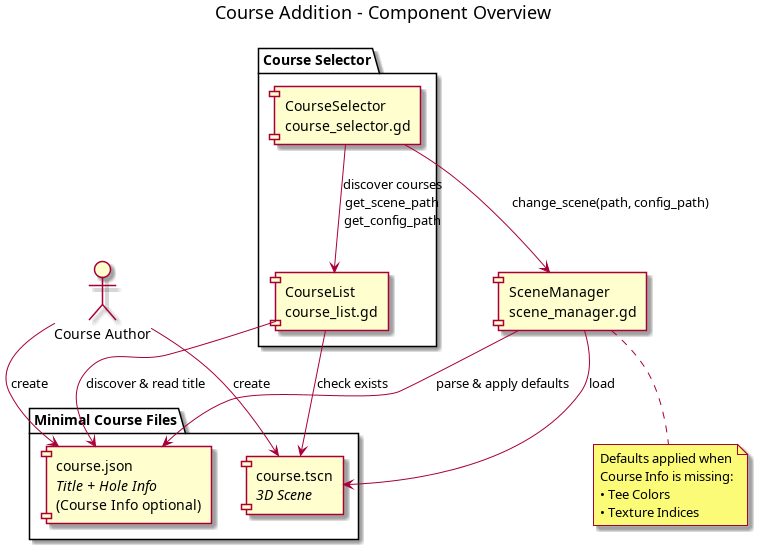
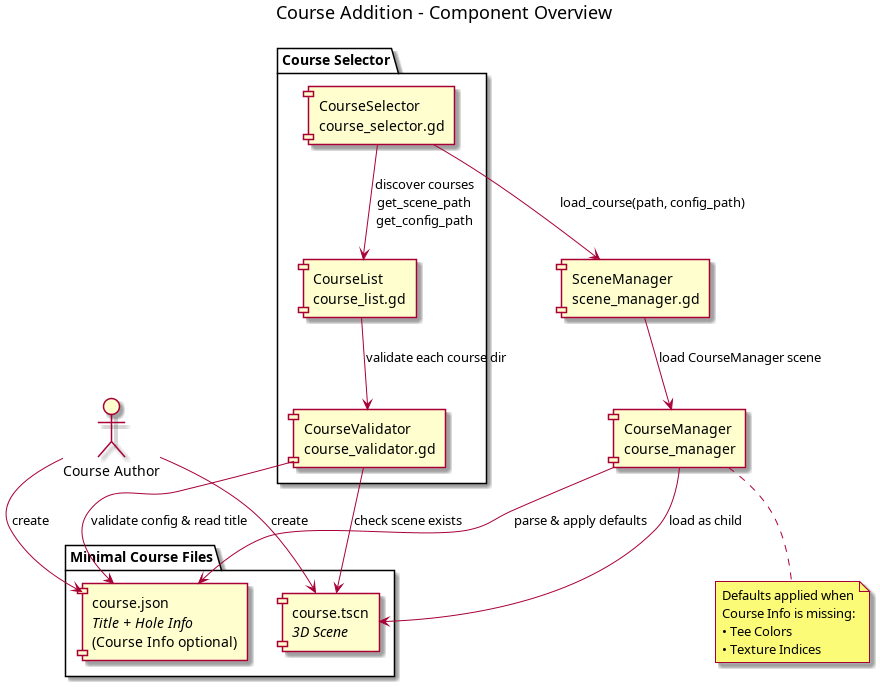
feat: creating course_validator to simplify code, single purpose pattern, reduce redundancy.

diff --git a/README.md b/README.md
@@ -143,7 +143,7 @@ Download and install the .NET SDK version 8.0 or later.
 - `Resources/`, `UI/`, `Utils/`: Art assets, UI components, and helper scripts.
 
 ## Course Loader/Finder Diagram
-The idea is to reduce redundancy and simplify creating new courses. CourseList discovers available courses and provides scene/config paths; SceneManager parses the `course.json` config, applies defaults, and exposes `course_info`/`hole_info` globally. For more technical details, please view `~/assets/images/course_addition.png`
+The idea is to reduce redundancy and simplify creating new courses. CourseValidator validates each course directory during discovery (config parsing, title extraction, scene resolution). CourseList stores pre-validated data as item metadata so accessors are simple lookups. CourseManager (loaded as a scene by SceneManager) parses the `course.json` config, applies defaults, and loads the course scene. For more technical details, please view `~/assets/images/course_addition.png`
 
 ![](/assets/images/course_addition_components.png)
 
